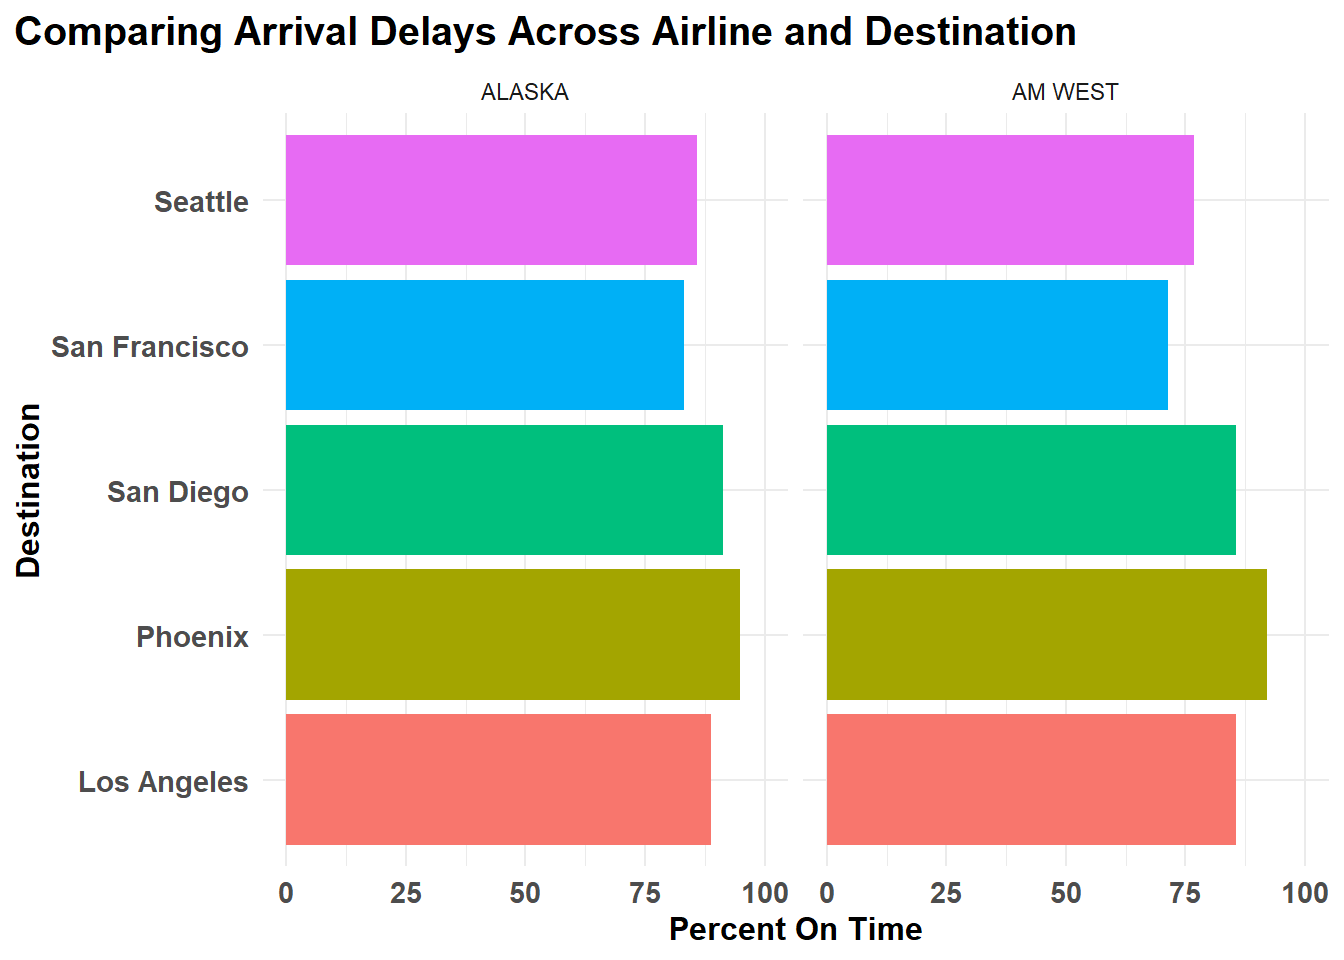
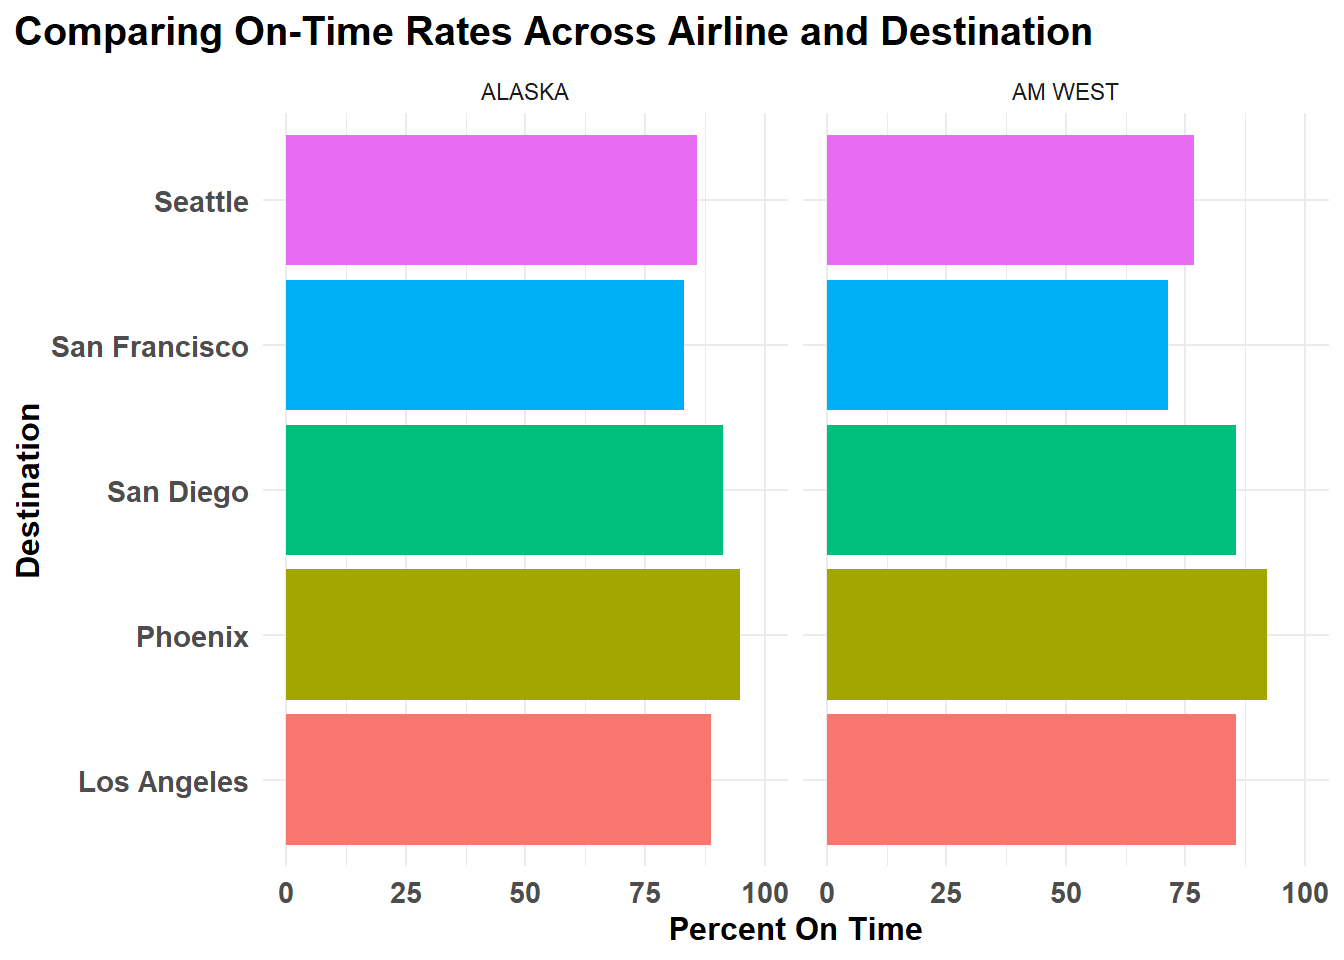
approach render

Changed region(s): [[0.1562, 0.0, 0.8125, 0.0625]]

diff --git a/Assignment5A-KCH-Codebase.html b/Assignment5A-KCH-Codebase.html
@@ -407,7 +407,7 @@ pre > code.sourceCode > span > a:first-child::before { text-decoration: underlin
 <span id="cb4-18"><a href="#cb4-18" aria-hidden="true" tabindex="-1"></a>  <span class="fu">geom_col</span>(<span class="at">show.legend =</span> <span class="cn">FALSE</span>) <span class="sc">+</span></span>
 <span id="cb4-19"><a href="#cb4-19" aria-hidden="true" tabindex="-1"></a>  <span class="fu">coord_flip</span>() <span class="sc">+</span></span>
 <span id="cb4-20"><a href="#cb4-20" aria-hidden="true" tabindex="-1"></a>  <span class="fu">scale_y_continuous</span>(<span class="at">limits =</span> <span class="fu">c</span>(<span class="dv">0</span>,<span class="dv">100</span>)) <span class="sc">+</span></span>
-<span id="cb4-21"><a href="#cb4-21" aria-hidden="true" tabindex="-1"></a>  <span class="fu">labs</span>(<span class="at">title =</span> <span class="st">"Comparing Arrival Delays Across Airline and Destination"</span>,</span>
+<span id="cb4-21"><a href="#cb4-21" aria-hidden="true" tabindex="-1"></a>  <span class="fu">labs</span>(<span class="at">title =</span> <span class="st">"Comparing On-Time Rates Across Airline and Destination"</span>,</span>
 <span id="cb4-22"><a href="#cb4-22" aria-hidden="true" tabindex="-1"></a>       <span class="at">x=</span><span class="st">"Destination"</span>,</span>
 <span id="cb4-23"><a href="#cb4-23" aria-hidden="true" tabindex="-1"></a>       <span class="at">y=</span><span class="st">"Percent On Time"</span>) <span class="sc">+</span></span>
 <span id="cb4-24"><a href="#cb4-24" aria-hidden="true" tabindex="-1"></a>  <span class="fu">theme_standard</span>()</span></code></pre></div><button title="Copy to Clipboard" class="code-copy-button"><i class="bi"></i></button></div>
@@ -418,7 +418,7 @@ pre > code.sourceCode > span > a:first-child::before { text-decoration: underlin
 <img src="Assignment5A-KCH-Codebase_files/figure-html/fig-1-1.png" class="img-fluid figure-img" width="672">
 </div>
 <figcaption class="quarto-float-caption-bottom quarto-float-caption quarto-float-fig" id="fig-1-caption-0ceaefa1-69ba-4598-a22c-09a6ac19f8ca">
-Figure&nbsp;1: Comparing Arrival Delays Across Airline and Destination
+Figure&nbsp;1: Comparing On-Time Rates Across Airline and Destination
 </figcaption>
 </figure>
 </div>
